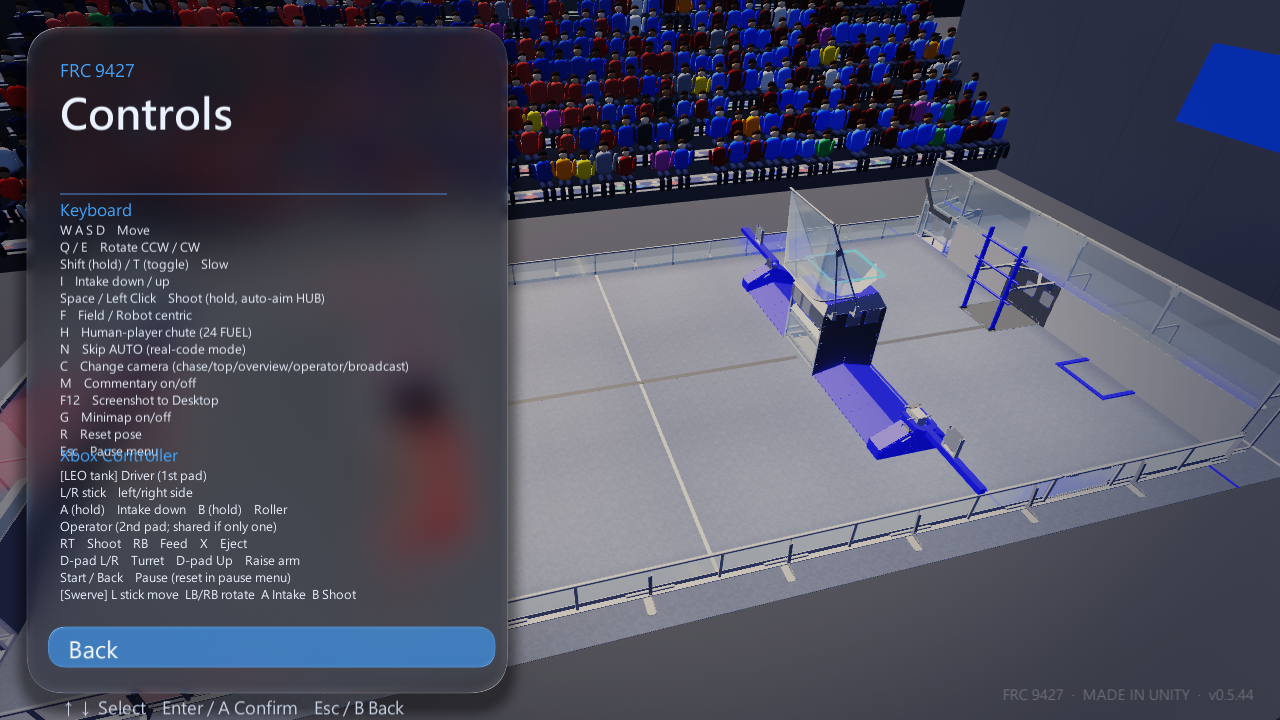
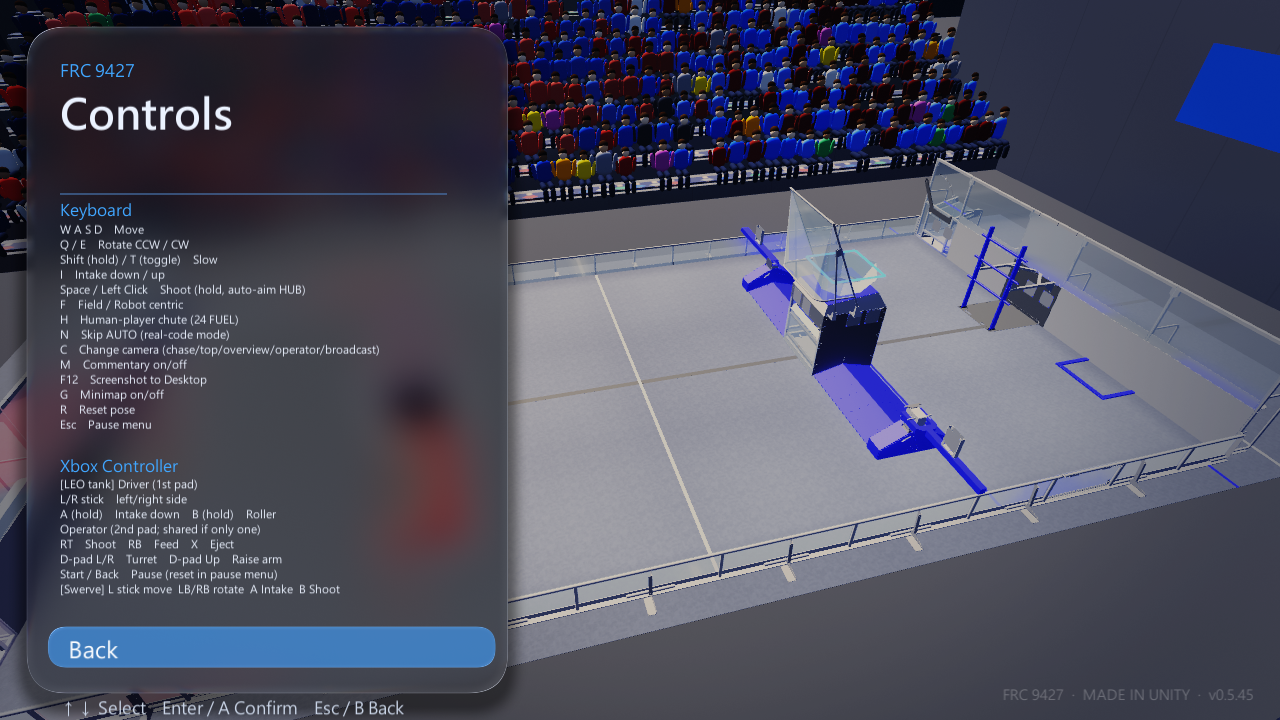
v0.5.45 controls layout

Changed region(s): [[0.0312, 0.3056, 0.3125, 0.8556]]

diff --git a/Assets/Scripts/UI/MenuSystem.cs b/Assets/Scripts/UI/MenuSystem.cs
@@ -508,14 +508,14 @@ namespace FrcSim
                 // 內容放在左側面板內(窄視窗也看得到),不再放到右邊 3D 畫面上
                 var kbT = UiKit.Label("KbT", content, Loc.T("ctl.kb"), 24, UiTheme.Accent, TextAnchor.UpperLeft);
                 UiKit.PlaceTL(kbT.rectTransform, 90, 300, 600, 32);
-                var kb = UiKit.Label("Kb", content, Loc.T("ctl.kb.body"), 19, UiTheme.Text, TextAnchor.UpperLeft);
-                kb.lineSpacing = 1.1f;
+                var kb = UiKit.Label("Kb", content, Loc.T("ctl.kb.body"), 17, UiTheme.Text, TextAnchor.UpperLeft);
+                kb.lineSpacing = 1.05f;
                 UiKit.PlaceTL(kb.rectTransform, 90, 334, 650, 320);
                 var pdT = UiKit.Label("PadT", content, Loc.T("ctl.pad"), 24, UiTheme.Accent, TextAnchor.UpperLeft);
-                UiKit.PlaceTL(pdT.rectTransform, 90, 668, 600, 32);
-                var pd = UiKit.Label("Pad", content, Loc.T("ctl.pad.body"), 19, UiTheme.Text, TextAnchor.UpperLeft);
-                pd.lineSpacing = 1.1f;
-                UiKit.PlaceTL(pd.rectTransform, 90, 702, 650, 230);
+                UiKit.PlaceTL(pdT.rectTransform, 90, 684, 600, 32);
+                var pd = UiKit.Label("Pad", content, Loc.T("ctl.pad.body"), 17, UiTheme.Text, TextAnchor.UpperLeft);
+                pd.lineSpacing = 1.05f;
+                UiKit.PlaceTL(pd.rectTransform, 90, 716, 650, 210);
                 // 語言切換時更新內文
                 lastControls = () =>
                 {
@@ -678,6 +678,7 @@ namespace FrcSim
         }
     }
 }
+
 
 
 

diff --git a/Assets/Scripts/Sim/UpdateCheck.cs b/Assets/Scripts/Sim/UpdateCheck.cs
@@ -17,7 +17,7 @@ namespace FrcSim
     //   找不到差異包(或失敗)時退回「開啟下載頁」,讓使用者手動下載完整版。
     public class UpdateCheck : MonoBehaviour
     {
-        public const string Current = "0.5.44";
+        public const string Current = "0.5.45";
         const string Repo = "frc9427liu-tech/FRC9427-SimApp";
         const string ReleasesApi = "https://api.github.com/repos/" + Repo + "/releases?per_page=30";
         public const string Page = "https://github.com/" + Repo + "/releases/latest";
@@ -235,6 +235,7 @@ Start-Process -FilePath $Exe -WorkingDirectory $Dst
 ";
     }
 }
+
 
 
 
